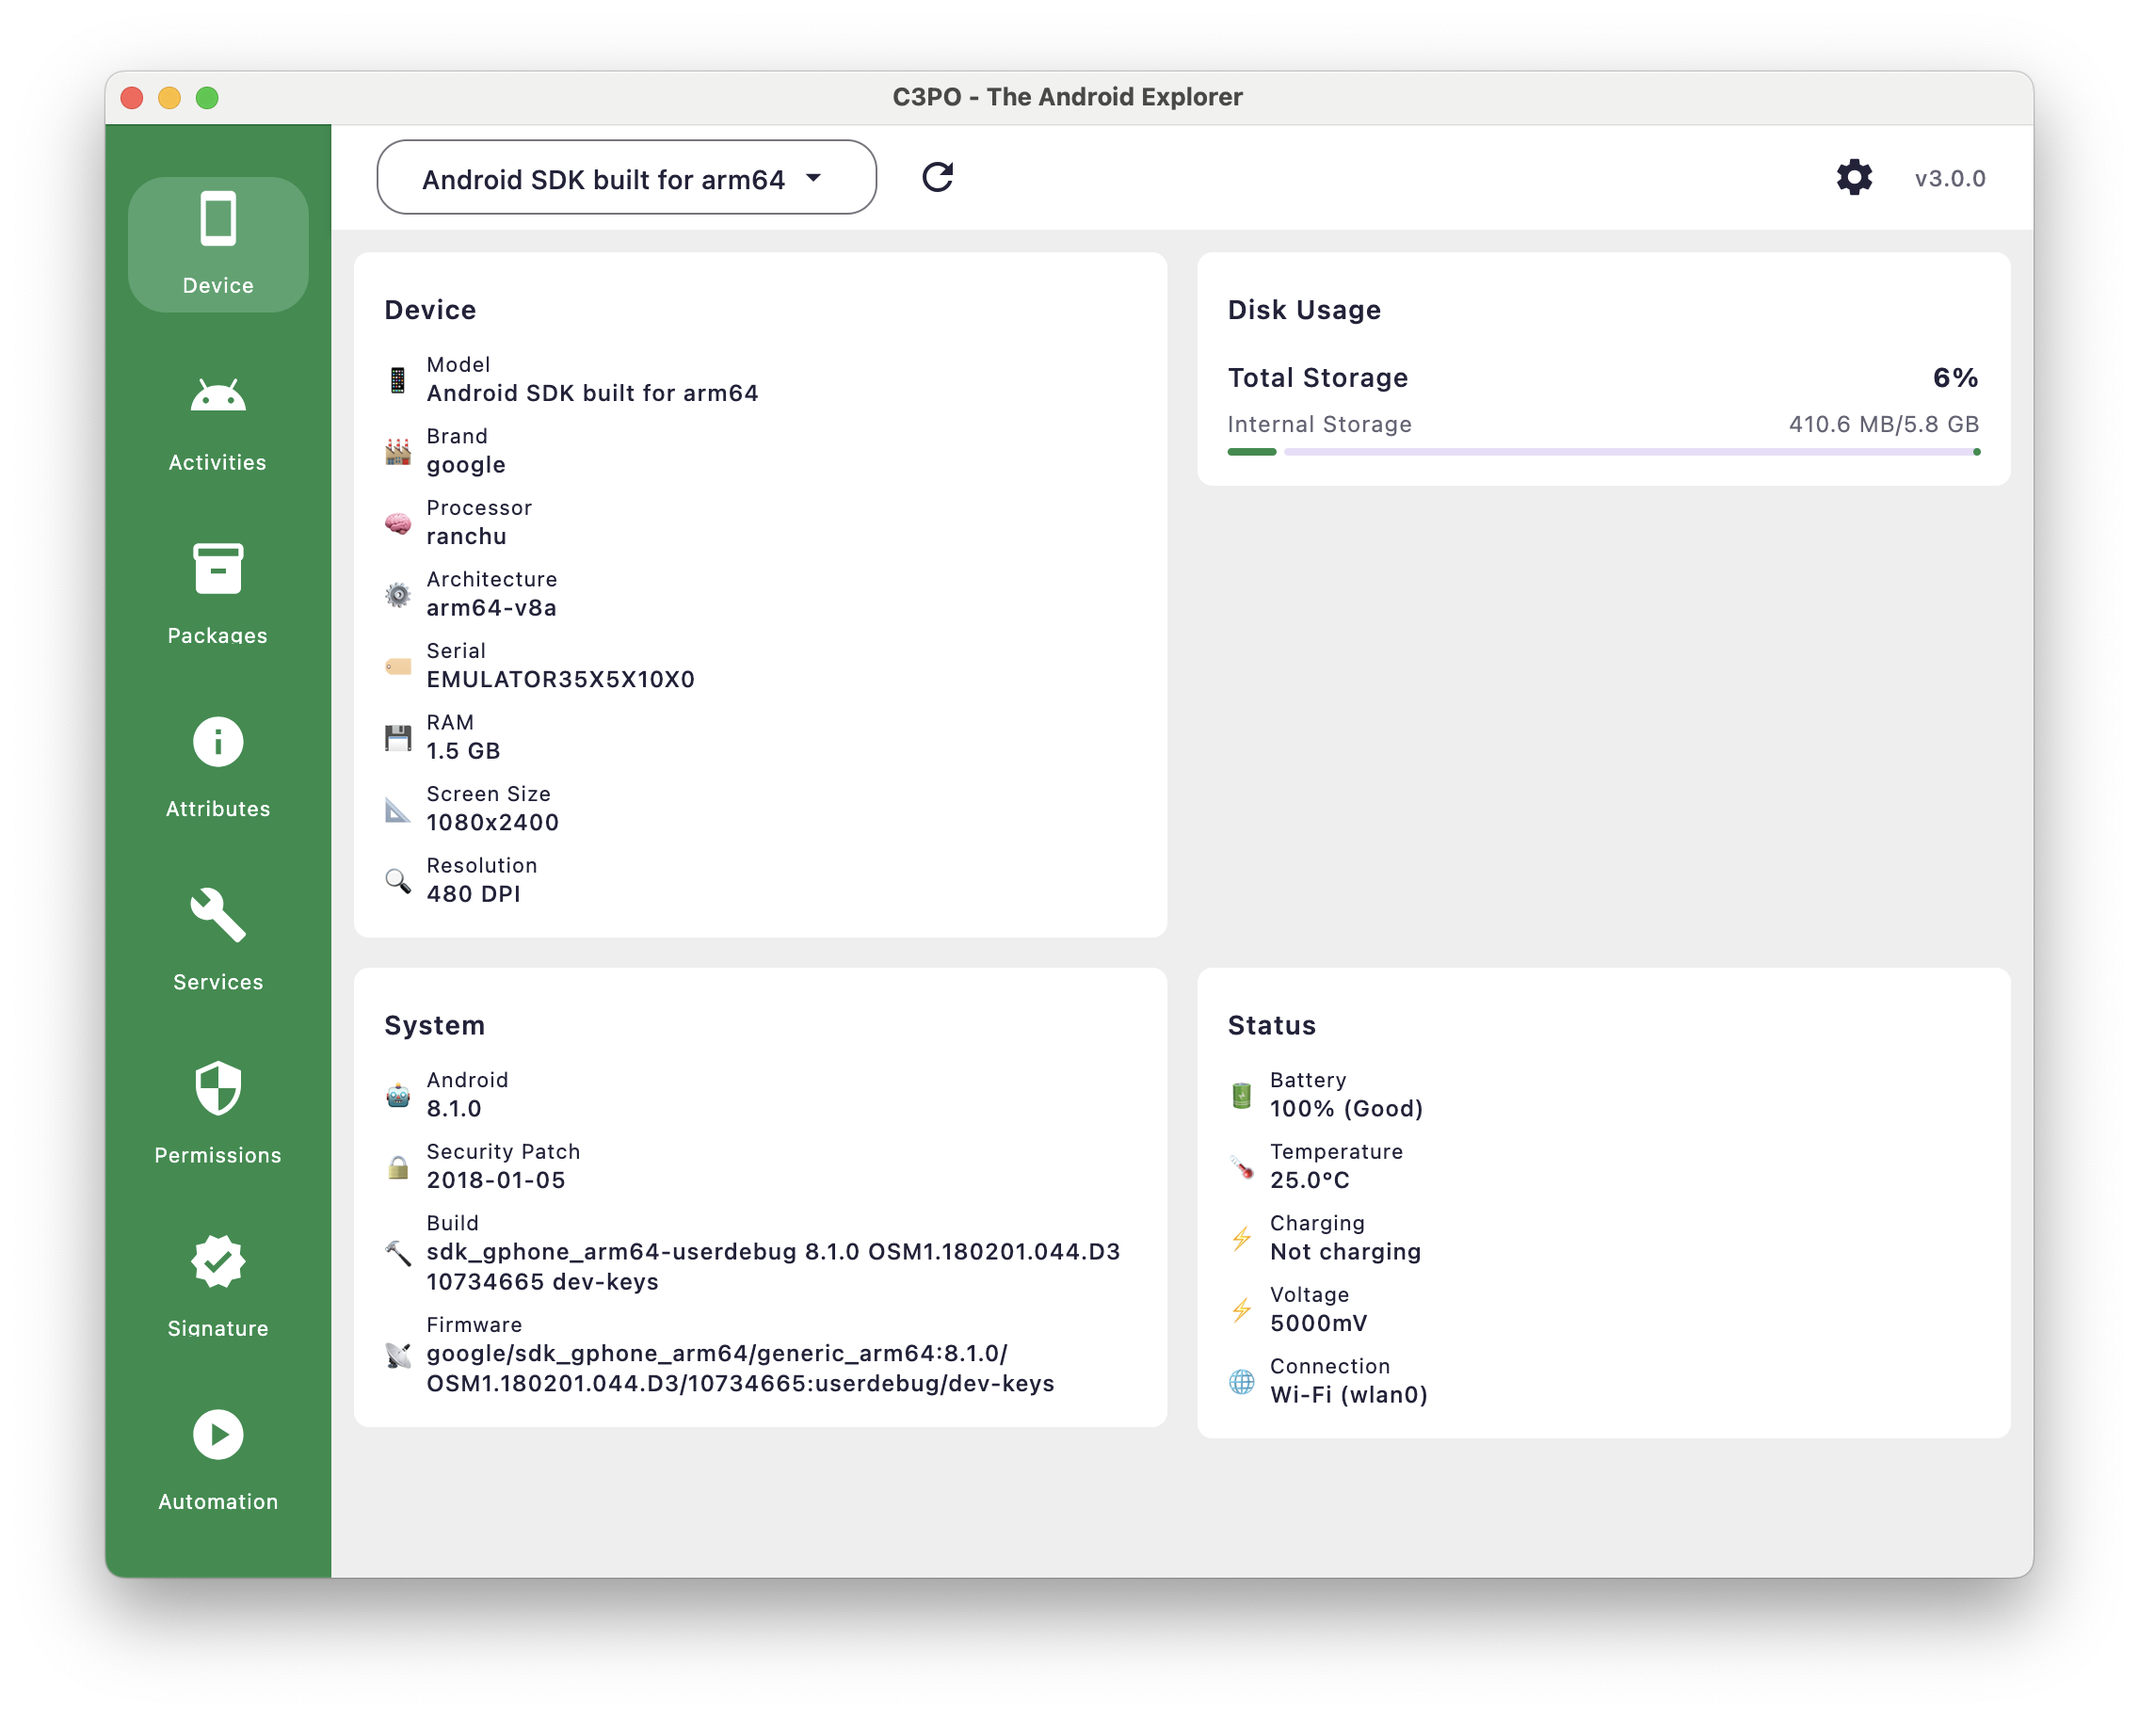
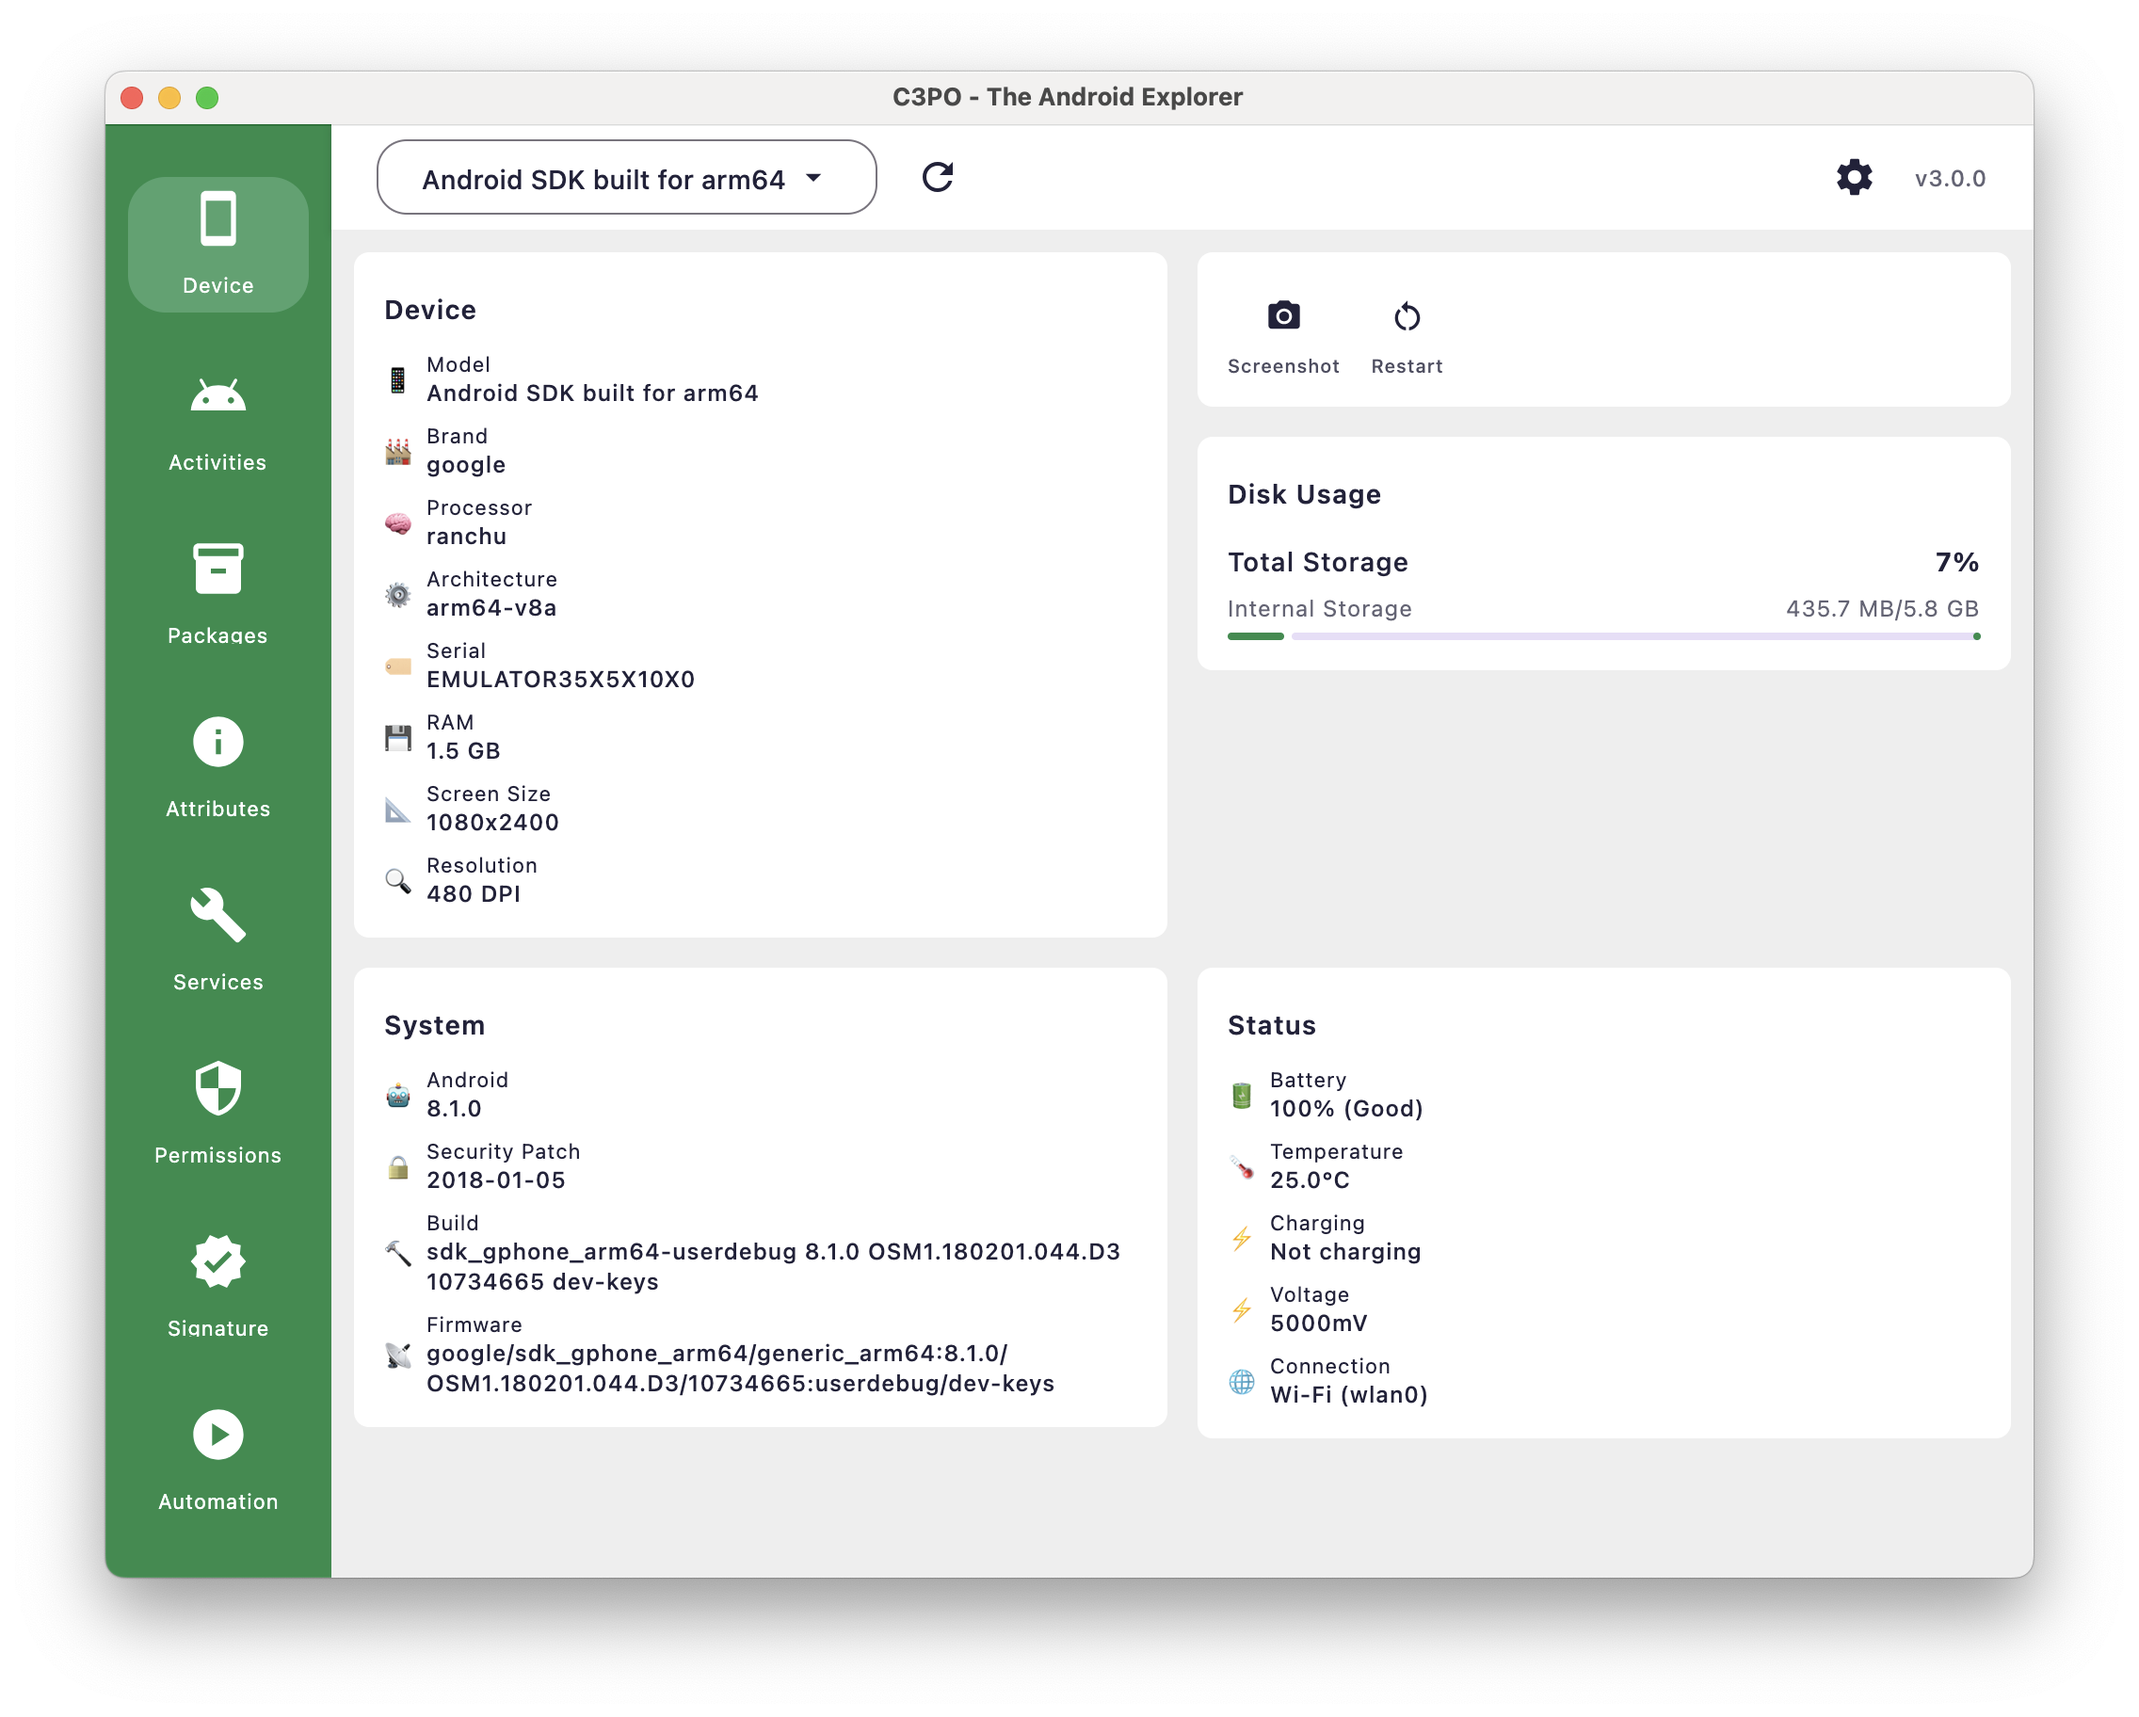
Improvement - Documentation updates

Changed region(s): [[0.5625, 0.1562, 0.9375, 0.375], [0.875, 0.3438, 0.9062, 0.375]]

diff --git a/docs/index.md b/docs/index.md
@@ -17,11 +17,11 @@ Welcome to the comprehensive documentation for **C3PO** - a powerful Kotlin + Je
 
 Explore C3PO's powerful features for Android development and debugging:
 
-| Plugin | Description |
-|--------|-------------|
-| [**📊 Device Information**](wiki/Device-Information-and-Monitoring.html) | System info, hardware details, and real-time monitoring |
-| [**📦 Package Management**](wiki/Package-Management-Deep-Dive.html) | Install, uninstall, and analyze APK packages |
-| [**⚙ Activities & Services**](wiki/Activities-and-Services-Management.html) | Control app components and background services |
+| Plugin                                                                       | Description                                                             |
+|------------------------------------------------------------------------------|-------------------------------------------------------------------------|
+| [**📊 Device Information**](wiki/Device-Information-and-Monitoring.html)     | System info, hardware details, device control, and real-time monitoring |
+| [**📦 Package Management**](wiki/Package-Management-Deep-Dive.html)          | Install, uninstall, copy, and analyze APK packages                      |
+| [**⚙ Activities & Services**](wiki/Activities-and-Services-Management.html) | Control app components and background services                          |
 
 ## 🔧 Advanced Topics
 

diff --git a/docs/wiki/Device-Information-and-Monitoring.md b/docs/wiki/Device-Information-and-Monitoring.md
@@ -104,6 +104,34 @@ The System card shows essential OS information:
     - Build timestamp
     - Developer keys information
 
+## Device Actions
+
+### Device Control Operations
+
+The Device plugin provides convenient action buttons for direct device control:
+
+#### Screenshot Capture
+
+Take an instant screenshot of your connected device's current screen. Click the screenshot button to capture what's
+currently displayed on the device. Screenshots are automatically saved to your local machine for immediate use.
+
+**Key Features:**
+
+- Instant screen capture with one click
+- Automatic local storage and cleanup
+- Perfect for documentation, bug reports, or testing workflows
+
+#### Device Restart
+
+Restarts your connected Android device when needed. Click the restart button to safely reboot the device - you'll be
+asked to confirm before the restart proceeds.
+
+**Key Features:**
+
+- Safe remote device restart
+- Confirmation dialog prevents accidental restarts
+- Automatic reconnection when device comes back online
+
 ## Device Status
 
 ### Real-Time Status Monitoring

diff --git a/docs/wiki/Package-Management-Deep-Dive.md b/docs/wiki/Package-Management-Deep-Dive.md
@@ -121,6 +121,12 @@ Each package provides the following action buttons:
 - **Function:** Clear all application data and reset to initial state
 - **Usage:** Reset app completely (removes user data, settings, caches)
 
+#### Copy Package Information
+
+- **Icon:** Copy icon
+- **Function:** Copy package name or information to clipboard
+- **Usage:** Quickly copy package details for documentation or scripting
+
 #### Uninstall Package
 
 - **Icon:** Delete icon
@@ -128,6 +134,18 @@ Each package provides the following action buttons:
 - **Usage:** Permanently uninstall the package
 
 ### Operation Details
+
+#### Copying Package Information
+
+The copy function provides quick access to package details for use in documentation, scripts, or other tools. Simply
+click the copy icon next to any package to copy its name to your clipboard.
+
+**Use Cases:**
+
+- Copy package names for script automation
+- Document installed applications
+- Share package identifiers with team members
+- Quick reference for development work
 
 #### Uninstalling Applications
 
